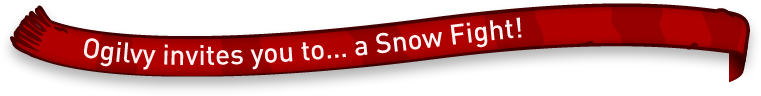
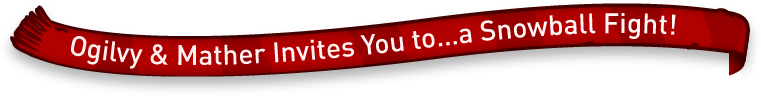
updating intro scarf image

Changed region(s): [[0.0907, 0.125, 0.9067, 0.7188], [0.9369, 0.6875, 0.9974, 0.8438]]

diff --git a/client/js/view/managers/AudioManager.js b/client/js/view/managers/AudioManager.js
@@ -1,0 +1,7 @@
+/**
+ * Created by IntelliJ IDEA.
+ * User: mpaige
+ * Date: 12/19/10
+ * Time: 3:36 PM
+ * To change this template use File | Settings | File Templates.
+ */
